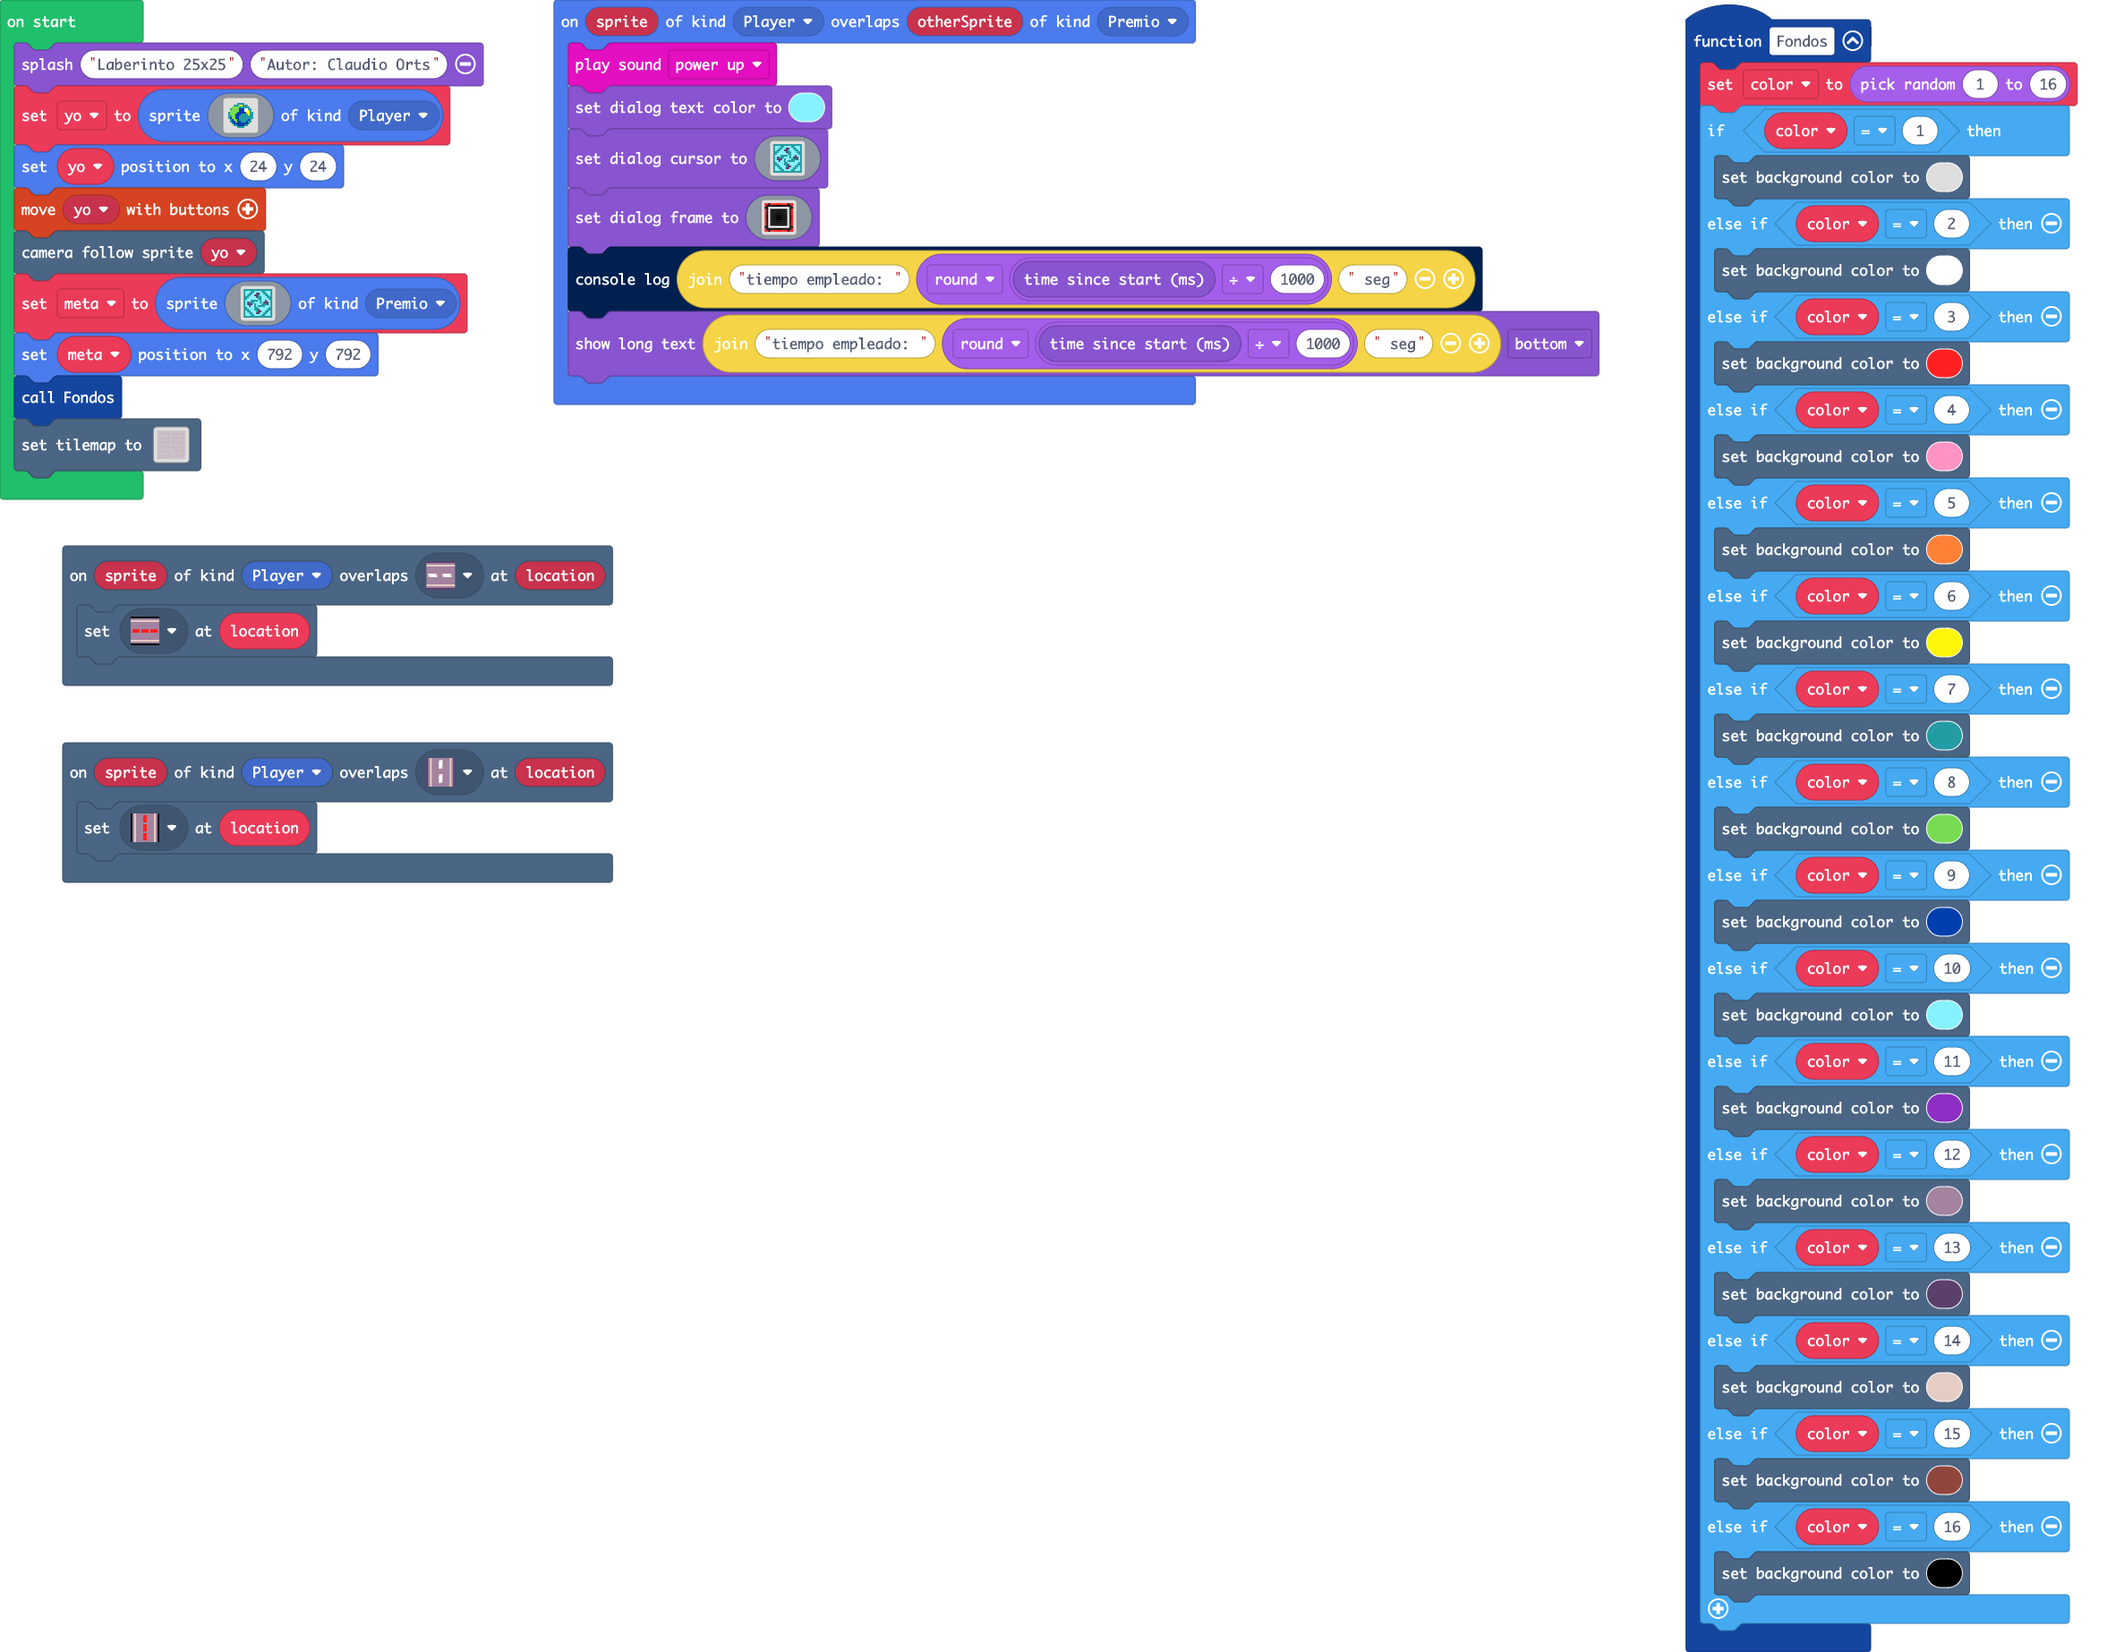
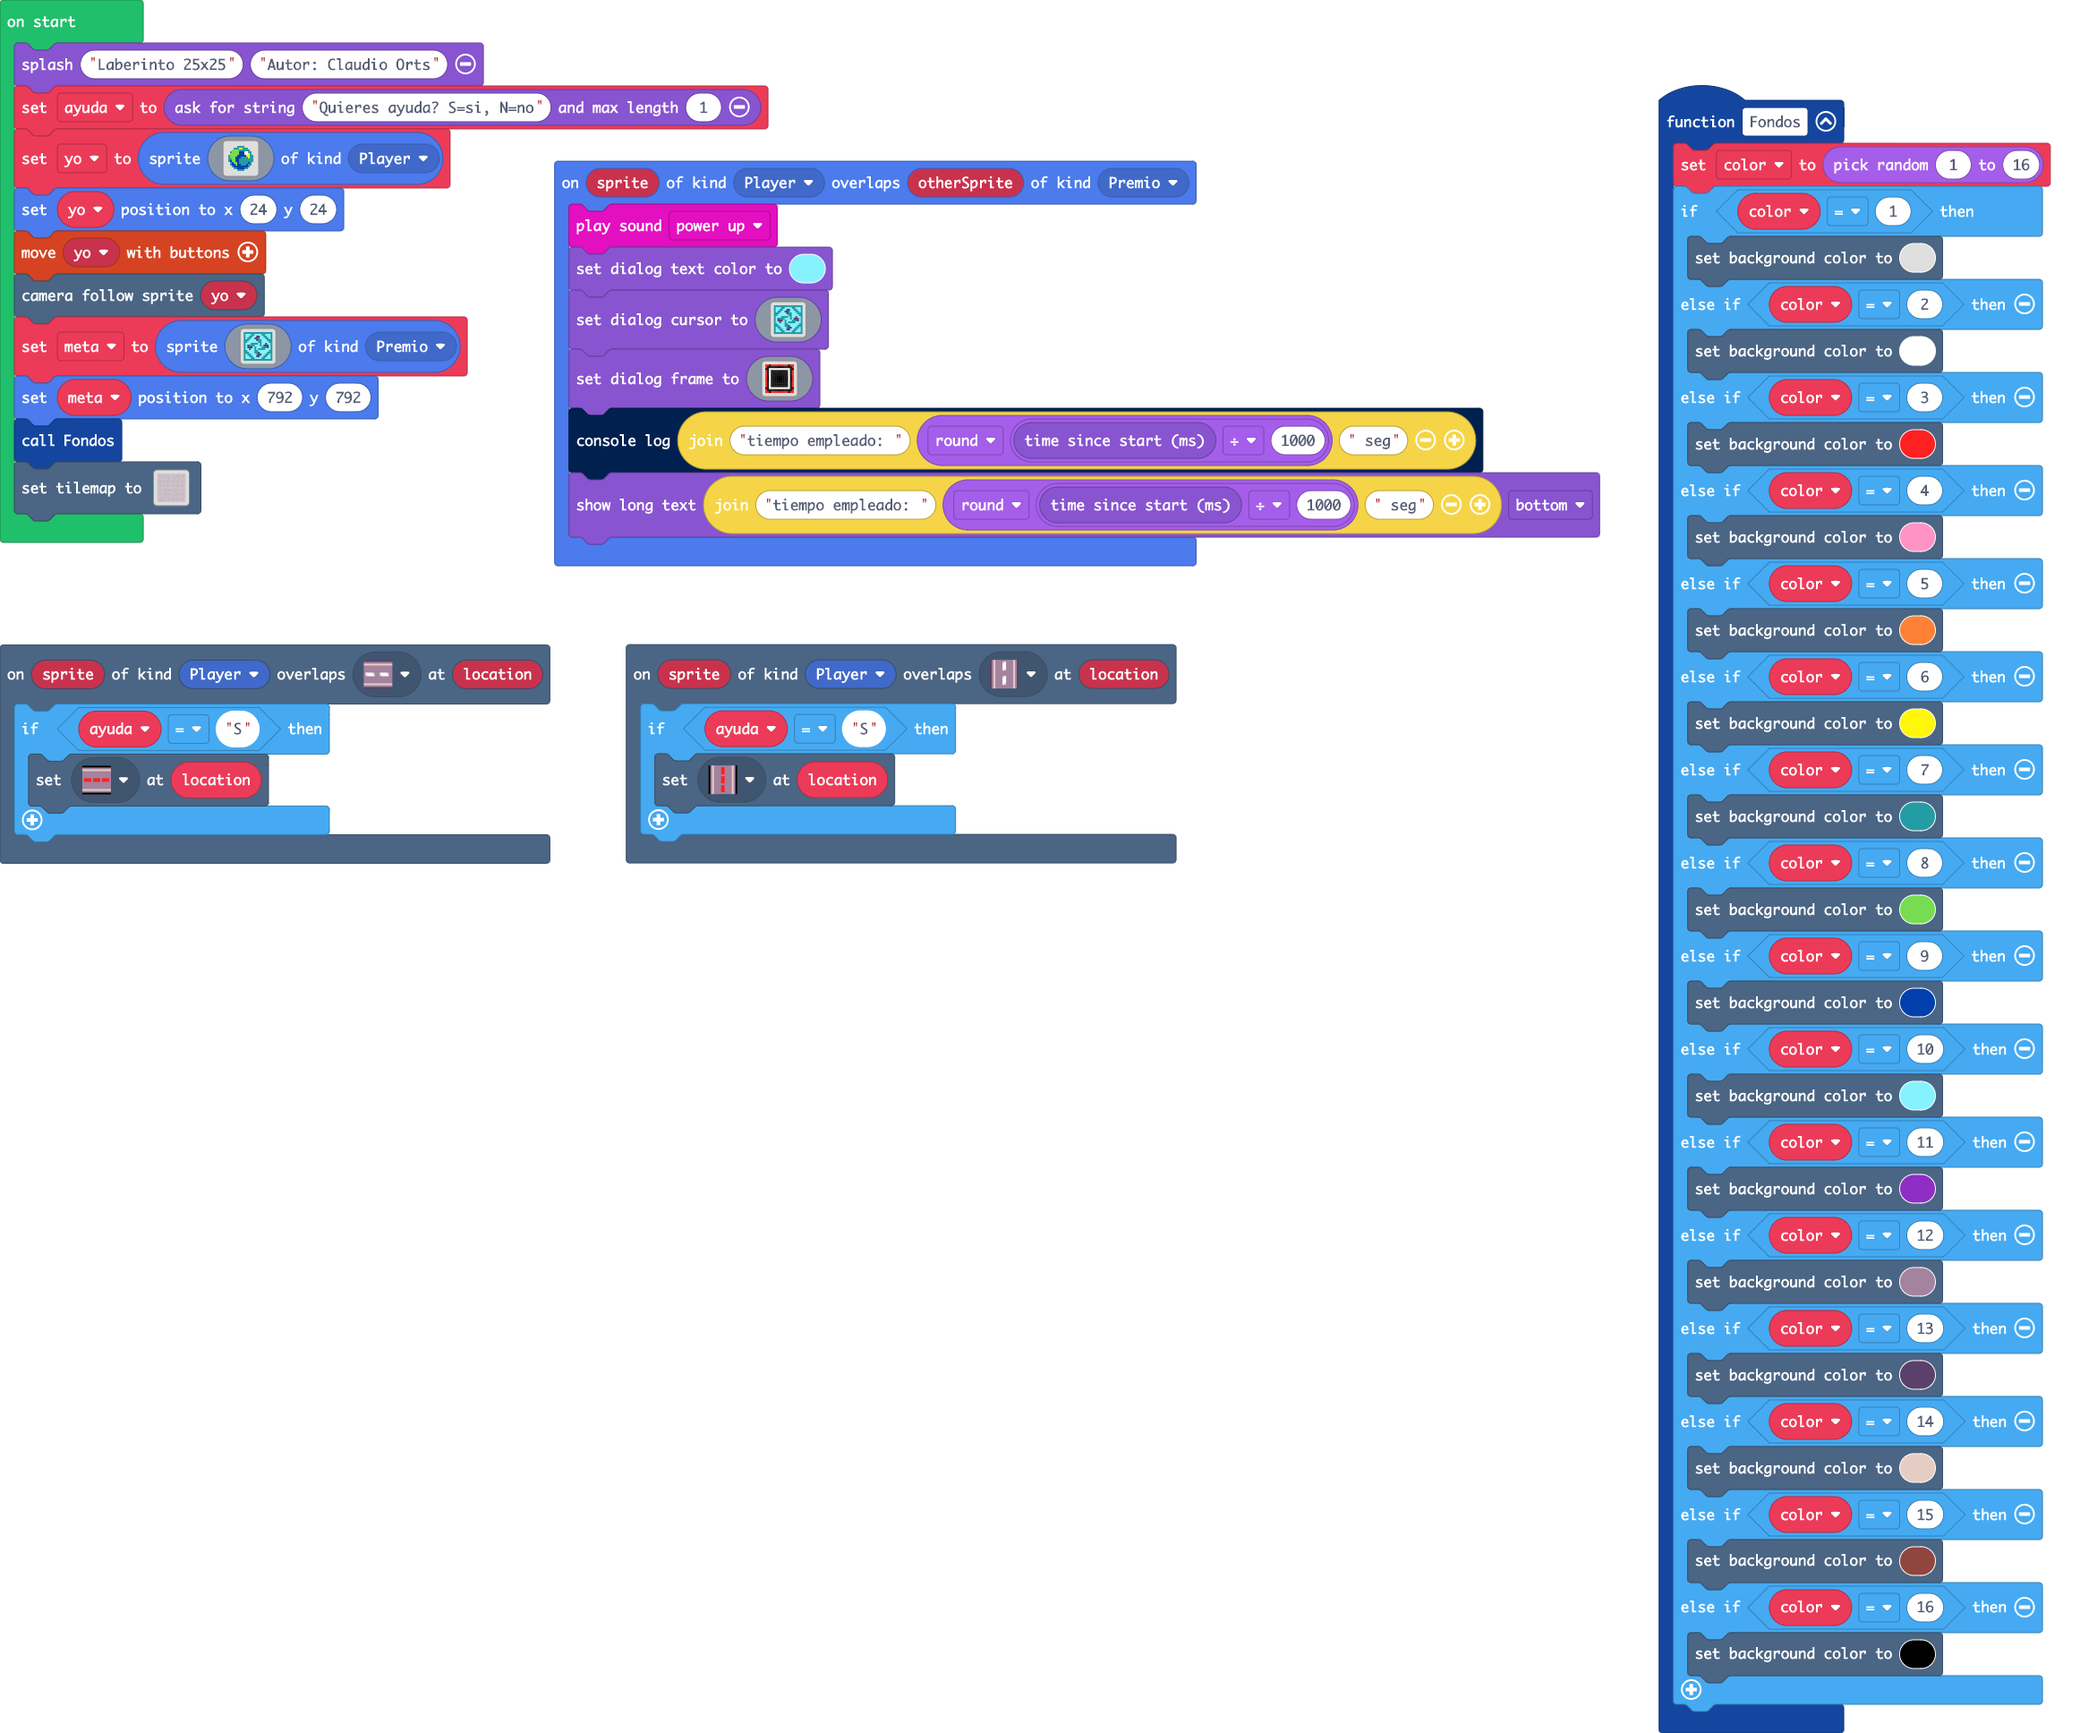
Update main.blocks, main.ts

diff --git a/main.ts b/main.ts
@@ -45,10 +45,14 @@ sprites.onOverlap(SpriteKind.Player, SpriteKind.Premio, function (sprite, otherS
     game.showLongText("tiempo empleado: " + Math.round(game.runtime() / 1000) + " seg", DialogLayout.Bottom)
 })
 scene.onOverlapTile(SpriteKind.Player, sprites.vehicle.roadVertical, function (sprite, location) {
-    tiles.setTileAt(location, myTiles.tile3)
+    if (ayuda == "S") {
+        tiles.setTileAt(location, myTiles.tile3)
+    }
 })
 scene.onOverlapTile(SpriteKind.Player, sprites.vehicle.roadHorizontal, function (sprite, location) {
-    tiles.setTileAt(location, myTiles.tile2)
+    if (ayuda == "S") {
+        tiles.setTileAt(location, myTiles.tile2)
+    }
 })
 function Fondos () {
     color = randint(1, 16)
@@ -87,7 +91,9 @@ function Fondos () {
     }
 }
 let color = 0
+let ayuda = ""
 game.splash("Laberinto 25x25", "Autor: Claudio Orts")
+ayuda = game.askForString("Quieres ayuda? S=si, N=no", 1)
 let yo = sprites.create(img`
     . . . . . . . . . . . . . . . . 
     . . . . . . 6 6 6 6 . . . . . . 
